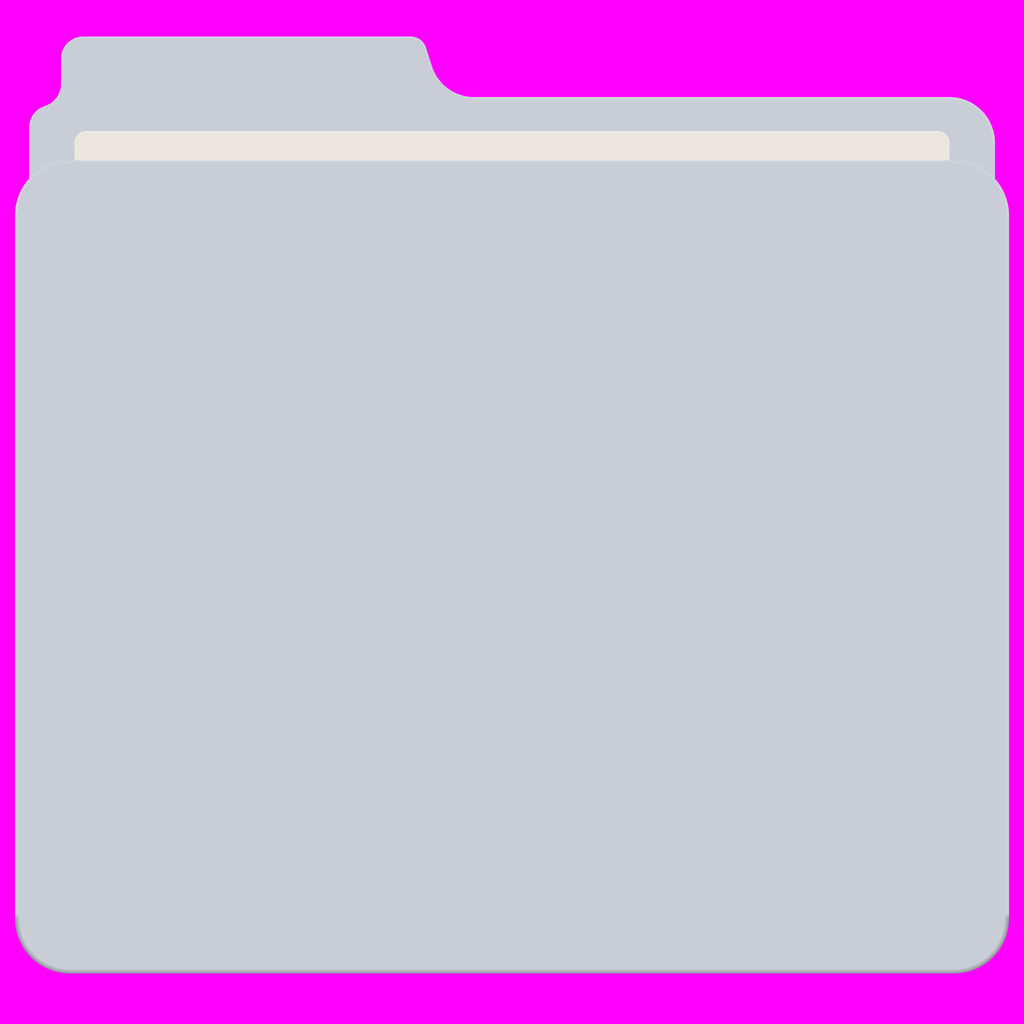
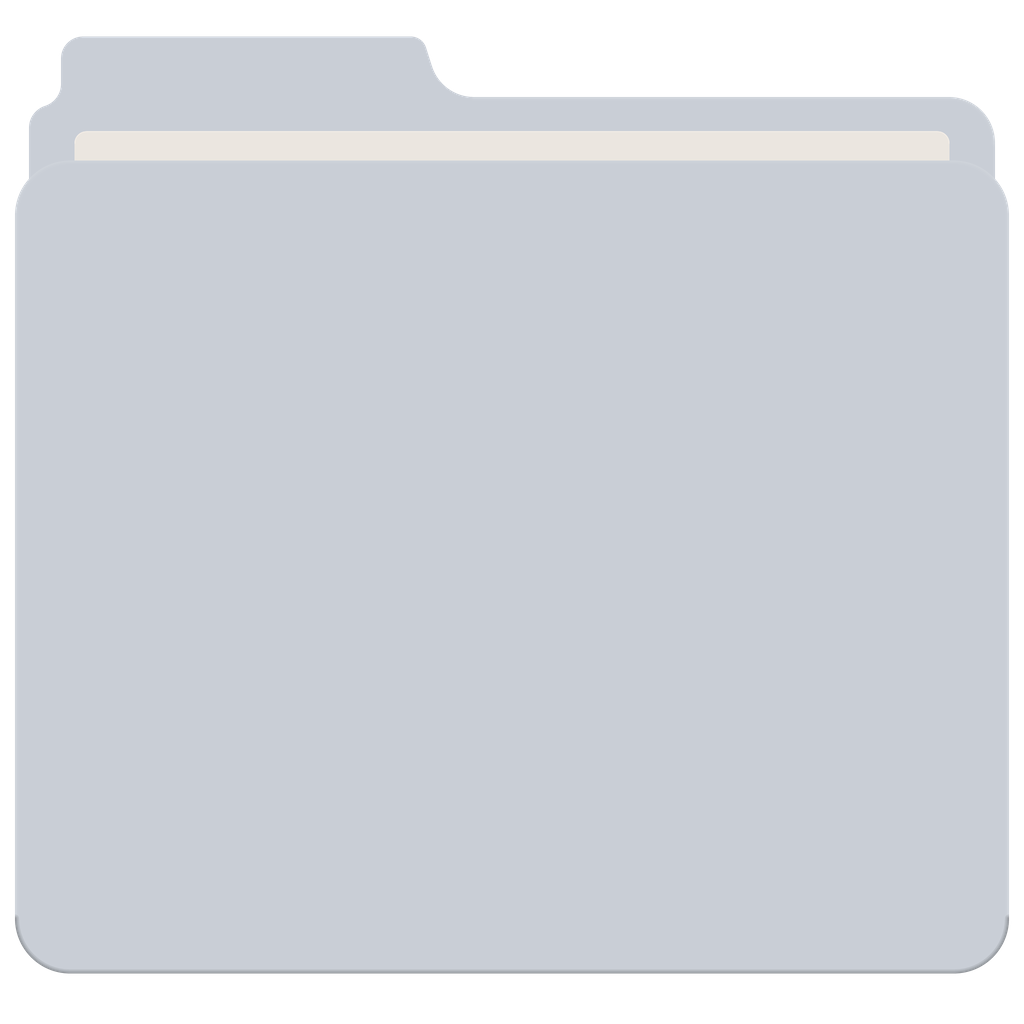
Give the chat template a transparent background
The template people attach in Grok or ChatGPT is now a blank folder on a
transparent background. Since it no longer carries the magenta, the prompt
asks the model to paint the background flat #FF00FF itself, which is what
FolderSkin cuts away on import; a picture that comes back with real
transparency is used as it is.

Changed region(s): [[0.0, 0.0, 1.0, 1.0]]

diff --git a/src/lib/prompts.ts b/src/lib/prompts.ts
@@ -47,5 +47,5 @@ Style: ${style}
 
 Paint the scene across the whole folder. The sky or background continues up into the back panel and the tab; the main subject sits in the middle of the front panel, fully inside it. Keep the paper sheet as a clean cream strip. Rich colour, strong light, fine texture, like a collectible poster.
 
-Everything outside the folder stays pure flat magenta #FF00FF: no shadow, no glow, no gradient, no border, no other objects. Do not use magenta or hot pink inside the folder. Square image.`;
+Paint everything outside the folder pure flat magenta #FF00FF: no shadow, no glow, no gradient, no border, no other objects. Do not use magenta or hot pink inside the folder. Square image.`;
 }

diff --git a/src/components/ChatHelper.tsx b/src/components/ChatHelper.tsx
@@ -60,7 +60,7 @@ export function ChatHelper({
             <p className="helper-step-title">Attach this template to your message</p>
             <p className="field-note">Drag it into the chat window. It keeps every folder the same shape.</p>
           </div>
-          <img className="helper-template" src="/folder-template.png" alt="blank folder on a magenta background" draggable />
+          <img className="helper-template" src="/folder-template.png" alt="blank FolderSkin folder template" draggable />
         </li>
         <li>
           <div className="helper-step-text">

diff --git a/docs/PROMPTS.md b/docs/PROMPTS.md
@@ -2,12 +2,13 @@
 
 You don't need an API key to make your own skins. Any chat app that can edit a picture
 (Grok, ChatGPT) can paint a folder for you if you give it our template and the prompt below.
-FolderSkin then cuts the folder out of the magenta background and adds it to **Yours**.
+The prompt asks for a flat magenta background, which FolderSkin cuts away before adding the
+folder to **Yours**.
 
 ## 1. Attach the template
 
 Download [`prompts/folder-template.png`](prompts/folder-template.png) and attach it to your
-message. It is a blank FolderSkin folder on a flat magenta background. The model repaints it,
+message. It is a blank FolderSkin folder on a transparent background. The model repaints it,
 so every result keeps the same shape: tab on the top left, a cream paper sheet between the
 panels, and the front panel carrying the picture.
 
@@ -29,7 +30,7 @@ panel and the tab; the main subject sits in the middle of the front panel, fully
 Keep the paper sheet as a clean cream strip. Rich colour, strong light, fine texture, like a
 collectible poster.
 
-Everything outside the folder stays pure flat magenta #FF00FF: no shadow, no glow, no
+Paint everything outside the folder pure flat magenta #FF00FF: no shadow, no glow, no
 gradient, no border, no other objects. Do not use magenta or hot pink inside the folder.
 Square image.
 ```
@@ -81,6 +82,9 @@ Or let the folder's name pick the scene: *"Scene: a witty poster about a folder 
 
 ## Why magenta
 
-Chat apps return pictures without transparency. A flat #FF00FF background almost never occurs
-in real artwork, so FolderSkin can find it, remove it and soften the edge cleanly. The same
-trick is used when the in-app assistant asks a model for a whole folder.
+Most chat apps return pictures without transparency. A flat #FF00FF background almost never
+occurs in real artwork, so FolderSkin can find it, remove it and soften the edge cleanly. The
+same trick is used when the in-app assistant asks a model for a whole folder.
+
+If a chat app hands back a picture that really is transparent around the folder, that works
+too: FolderSkin uses the transparency as it is.
